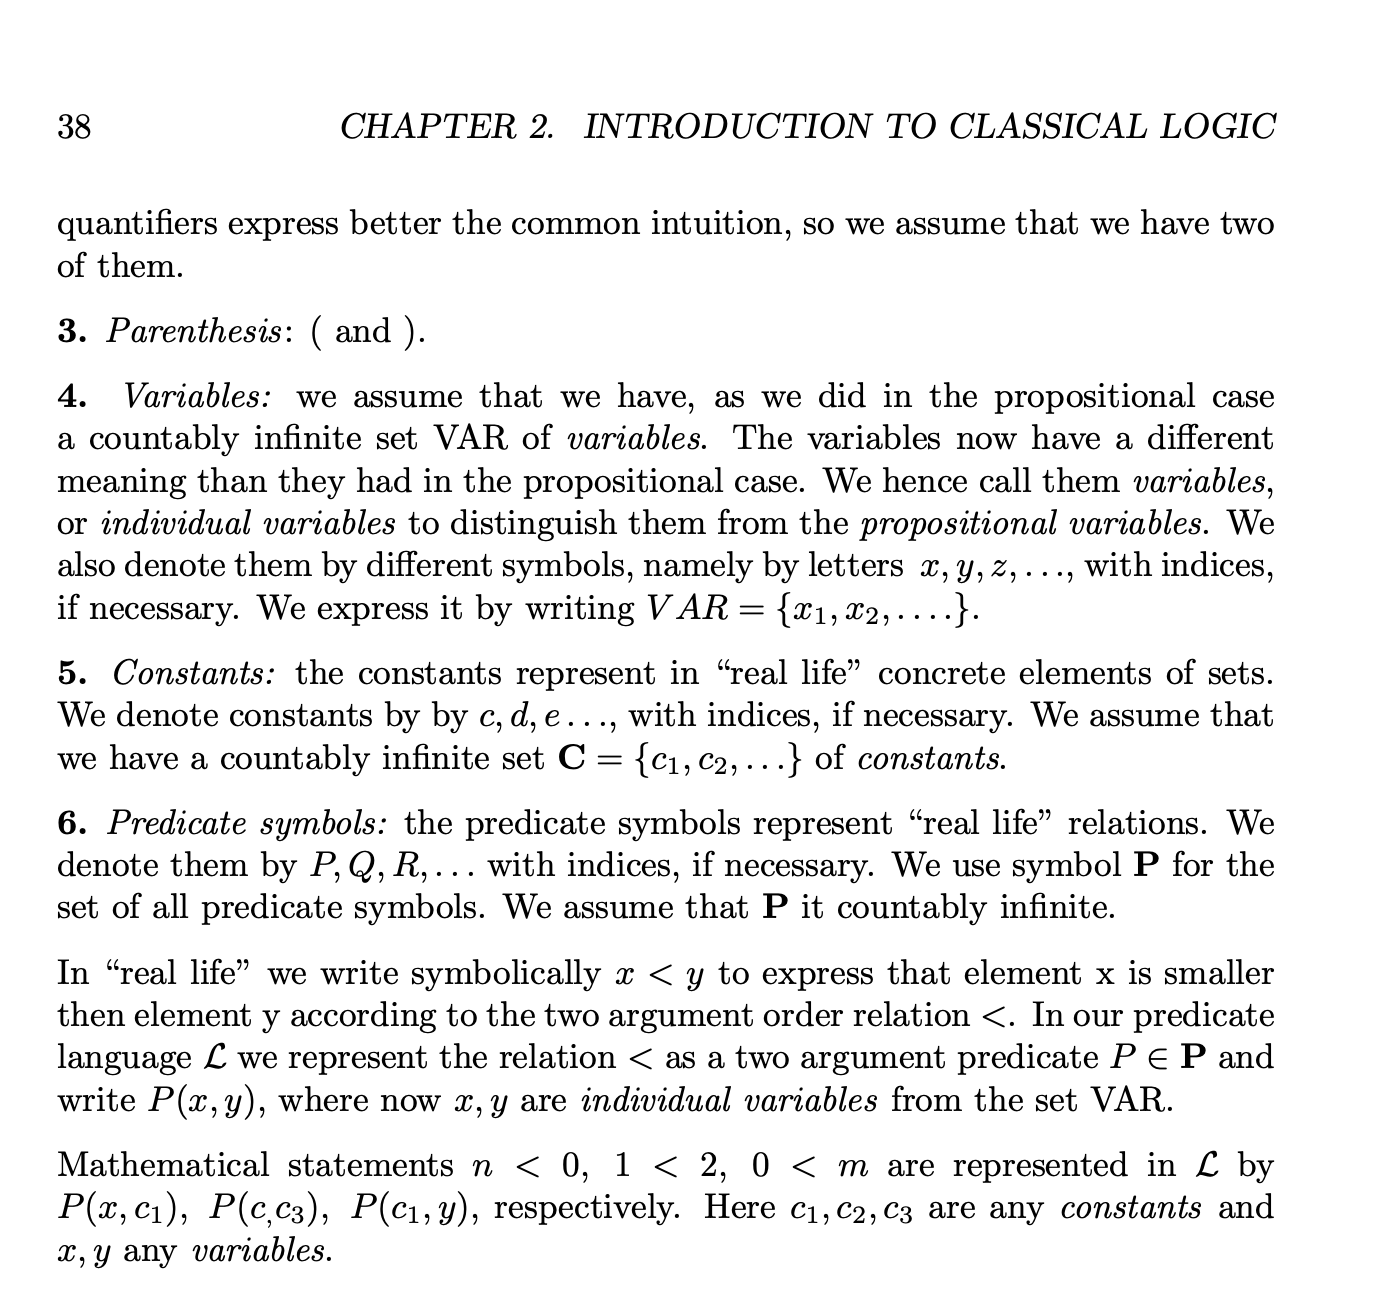
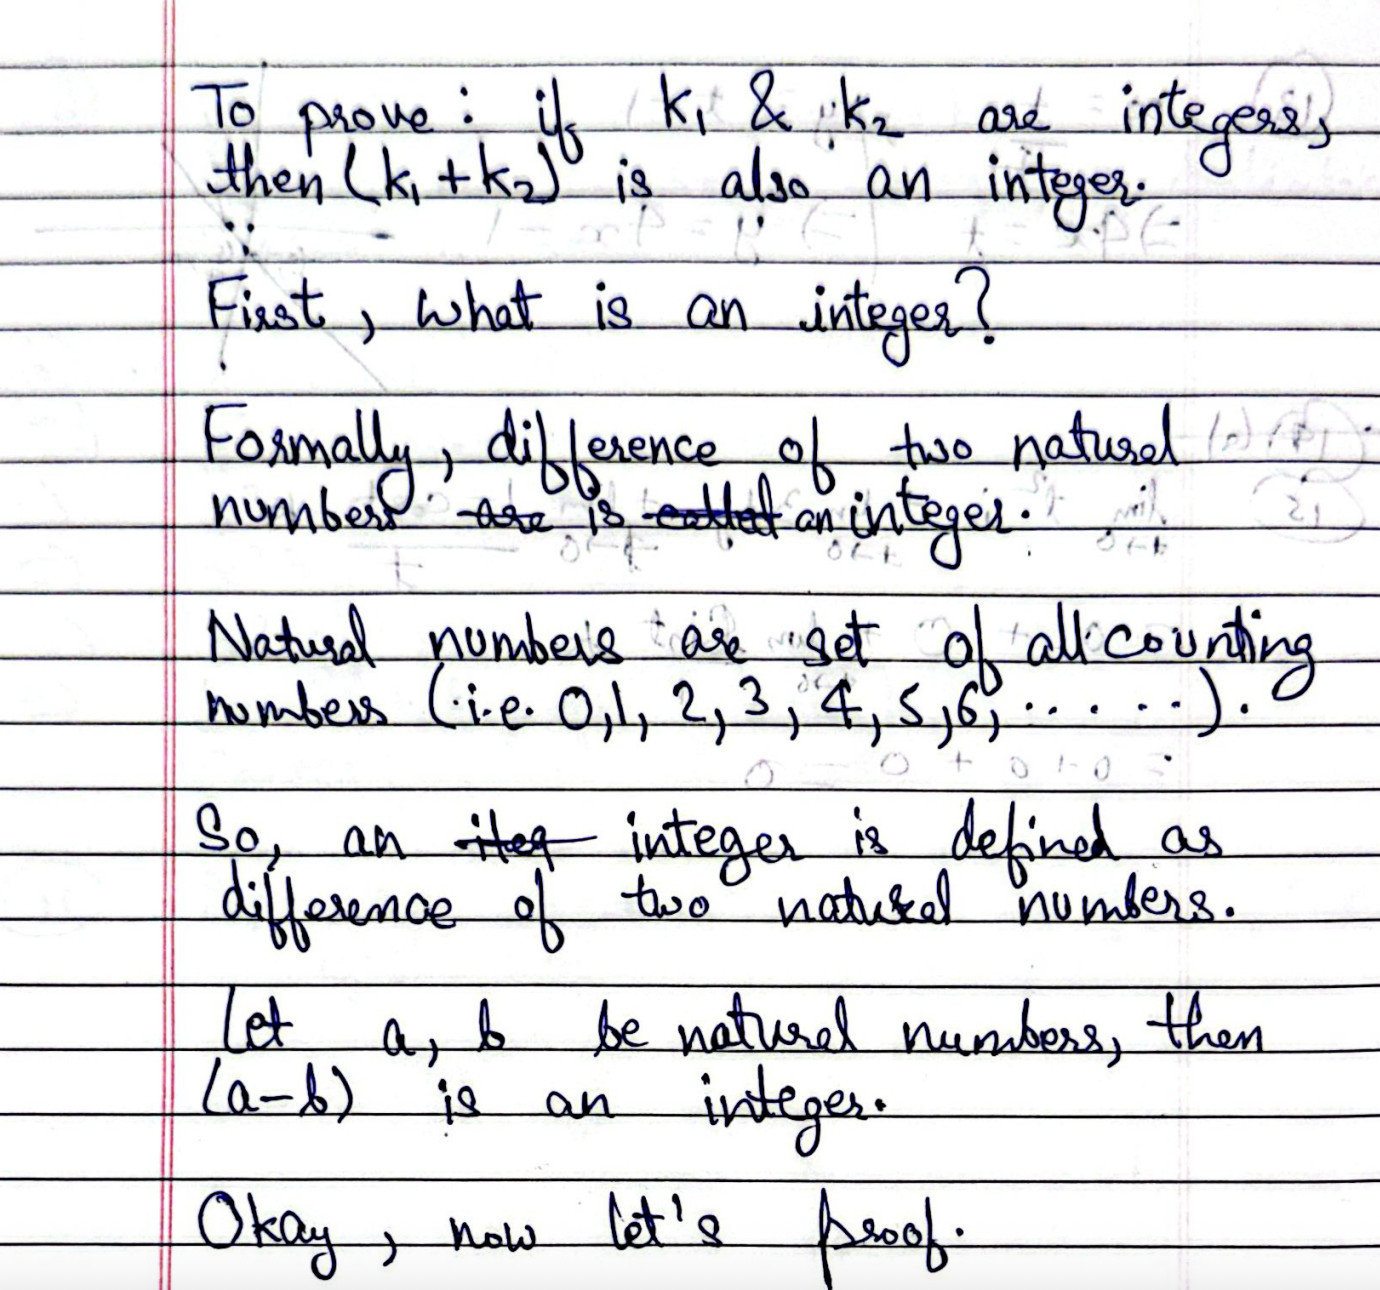
Completely sanitize all error responses and redact any credentials

Changed region(s): [[0.0, 0.0, 1.0, 1.0]]

diff --git a/frontend/src/App.jsx b/frontend/src/App.jsx
@@ -173,8 +173,7 @@ export default function App() {
       });
       setSelectedRegionId(null);
     } catch (err) {
-      console.error(err);
-      setErrorMsg(err.message || 'Error processing image. Check backend connection.');
+      setErrorMsg('Failed to process image. Please try again.');
     } finally {
       setProcessing(false);
     }

diff --git a/backend/main.py b/backend/main.py
@@ -148,10 +148,9 @@ async def process_whiteboard(
                 study_guide = process_whiteboard_with_gemini(enhanced_bytes, api_key=api_key)
                 mode_used = "gemini_multimodal"
             except Exception as e:
-                # If API call fails (rate limit, invalid key), gracefully fallback to CV engine
-                print(f"[Warning] AI generation failed, falling back to CV pipeline: {e}")
+                # If API call fails, cleanly fallback without leaking any credentials
                 study_guide = generate_fallback_study_guide(cv_regions, enhanced_image)
-                study_guide["api_warning"] = str(e)
+                study_guide["api_warning"] = "AI generation unavailable, used local CV engine."
         else:
             study_guide = generate_fallback_study_guide(cv_regions, enhanced_image)
 
@@ -170,10 +169,8 @@ async def process_whiteboard(
             "study_guide": study_guide
         }
 
-    except Exception as e:
-        import traceback
-        traceback.print_exc()
-        raise HTTPException(status_code=500, detail=str(e))
+    except Exception:
+        raise HTTPException(status_code=500, detail="Error processing image in vision pipeline.")
 
 
 @app.post("/api/export-tex")
